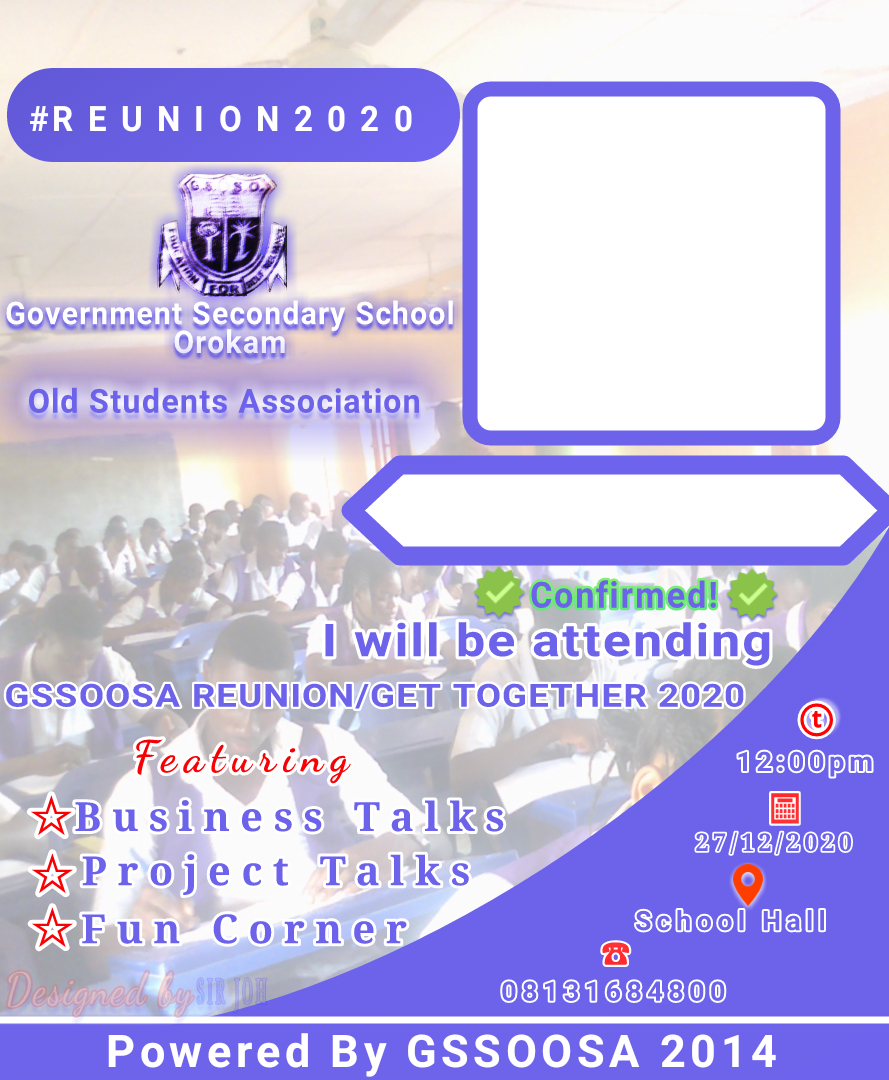
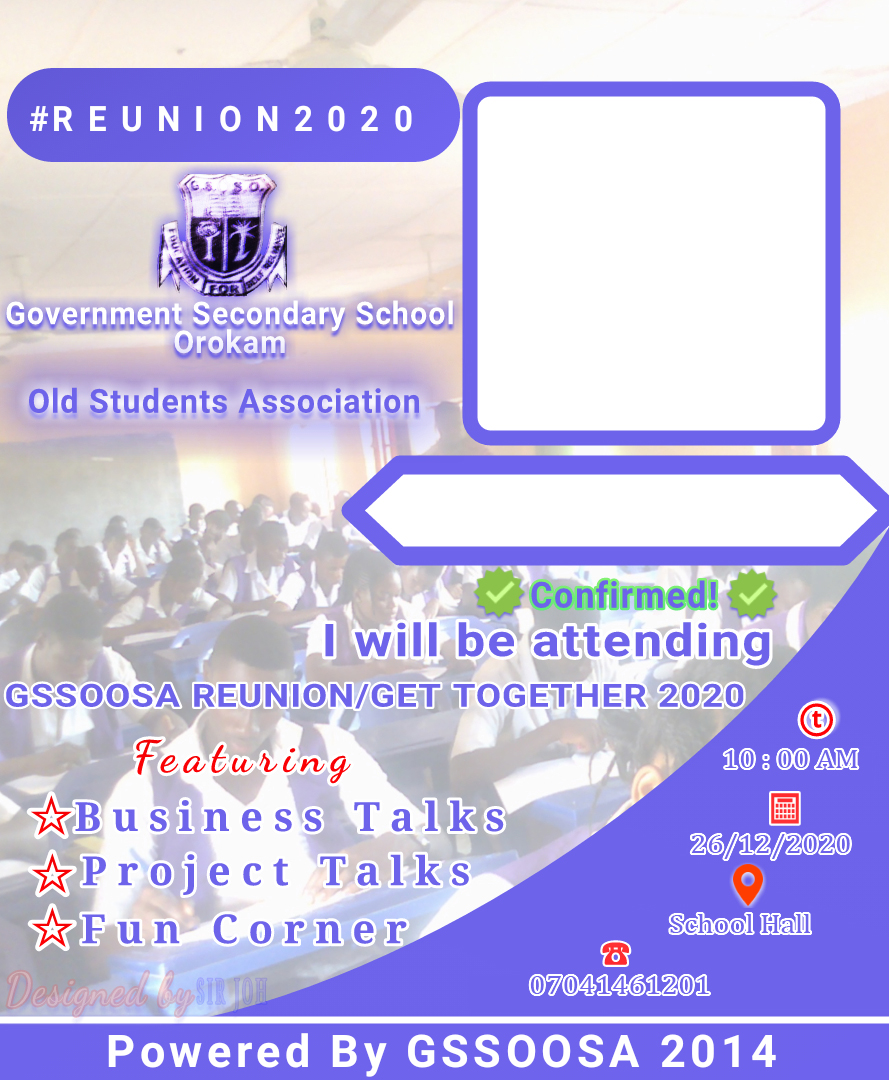
update frame

Changed region(s): [[0.5467, 0.825, 0.9415, 0.9472], [0.82, 0.6722, 1.0, 0.7333], [0.7593, 0.7639, 0.9719, 0.7944]]

diff --git a/src/js/main.js b/src/js/main.js
@@ -42,8 +42,8 @@ $(function() {
           <img id="dp_result" src=${url} title="Your DP"/>
           <br>
           <center class="center-form"><b>
-          Click the below copy button to copy and paste this text along with your generated Image on Social Platform<br>
-          </b><textarea id="inputco" style="margin: 0px; width: 350px; height: 70px;">I am attending GSSOSA 2014 SET REUNION 2020. #GSSOSA2014 #REUNION2020. Do not wait to be told the story. - Use https://gsso-reunion.netlify.app to Generate Your own I will there Image</textarea> 
+          Click the below copy button to copy and paste this text along with your generated Image on Social Platforms<br>
+          </b><textarea id="inputco" style="margin: 0px; width: 350px; height: 70px;">I will be attending GSSOSA 2014 SET REUNION 2020. #GSSOSA2014 #REUNION2020. Do not wait to be told the story. - Use https://gsso-reunion.netlify.app to confirm your presence and Generate your own Image</textarea> 
           <br>
           <button id="copy-button">Copy Text</button> </center>
           <br>
@@ -146,11 +146,6 @@ $(function() {
             ctx.drawImage(frameImg, 0, 0);
 
             ctx.drawImage(userImg, view.x, view.y, view.width, view.height);
-
-            //ctx.textBaseline = "bottom";e
-            //ctx.font = "bold 30px Arial";eeeee
-            //ctx.fillStyle = "#fff";e
-            //ctx.fillText("#TalkNow", 750, view.y + innerText.y);
 
             ctx.textBaseline = "top";
             ctx.textAlign = "left";
